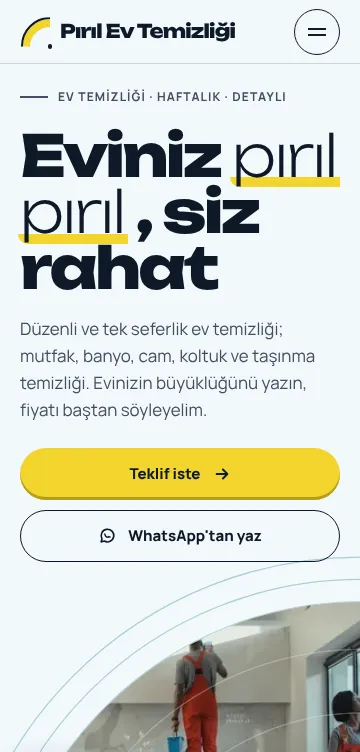
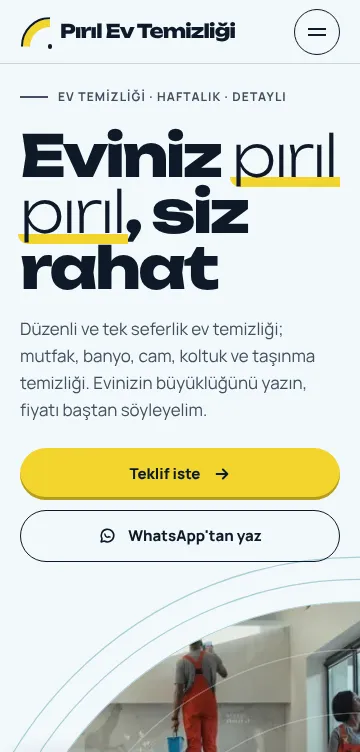
Vitrin: Silecek başlık düzeltmesiyle yeni ekran, Kor (restoran, 76) eklendi; 22 tasarım
Yayın kaynağı sürüm 33065f58. Test: 'restoran' artık yayındaki dal olduğundan
bilinmeyen dal örneği 'olmayan-dal' yapıldı (yayın listesinde olmadığı da sınanıyor).

Claude-Session: https://claude.ai/code/session_01Bg3cchsz5nz6ShfHjQs8Db

Changed region(s): [[0.3361, 0.2447, 0.7333, 0.3364]]

diff --git a/index.html b/index.html
@@ -746,7 +746,7 @@ footer li a{min-width:44px;justify-content:center}
     </div>
   </div>
   <div class="sahne gir d2" aria-hidden="true">
-    <div class="yuzen y1"><span class="i" style="background:#FDECEE;color:#C8001A"><svg><use href="#i-izg"/></svg></span><span data-vitrin="rozet"><!-- vitrin:rozet -->21 tasarım<small>17 renk, siz seçin</small><!-- /vitrin:rozet --></span></div>
+    <div class="yuzen y1"><span class="i" style="background:#FDECEE;color:#C8001A"><svg><use href="#i-izg"/></svg></span><span data-vitrin="rozet"><!-- vitrin:rozet -->22 tasarım<small>17 renk, siz seçin</small><!-- /vitrin:rozet --></span></div>
     <div class="yuzen y2"><span class="i" style="background:#166534;color:#fff"><svg><use href="#i-ok"/></svg></span><span>Kaydedildi<small>Sitede hemen görünür</small></span></div>
     <div class="tel"><div class="ada"></div><div class="ekran site" id="kapakTel">
       <img class="on" src="marka/web/kuafor-11.webp" width="360" height="752" alt="" fetchpriority="high">
@@ -761,10 +761,11 @@ footer li a{min-width:44px;justify-content:center}
   <div class="w"><div class="bas r">
     <div class="ust-yazi">Tasarımlar</div>
     <h2 id="tasarim-b">İşinize uygun <em>tasarımı seçin.</em></h2>
-    <p data-vitrin="metin"><!-- vitrin:metin -->21 sayfa tasarımı ve 17 renk paleti. Hepsi telefonda rahat okunacak şekilde hazırlandı. Dokunun, canlı örneği açın.<!-- /vitrin:metin --></p>
+    <p data-vitrin="metin"><!-- vitrin:metin -->22 sayfa tasarımı ve 17 renk paleti. Hepsi telefonda rahat okunacak şekilde hazırlandı. Dokunun, canlı örneği açın.<!-- /vitrin:metin --></p>
   </div></div>
-  <div class="vit" id="vit" data-surum="c8969bb1" tabindex="0" role="region" aria-label="Tasarım örnekleri (yana kaydırılabilir)"><!-- vitrin:kartlar -->
+  <div class="vit" id="vit" data-surum="33065f58" tabindex="0" role="region" aria-label="Tasarım örnekleri (yana kaydırılabilir)"><!-- vitrin:kartlar -->
     <a class="vk" href="https://app.enpovi.com/tema/cicekci/74/" target="_blank" rel="noopener"><span class="vk-tel"><img loading="lazy" decoding="async" src="marka/web/v/cicekci-74.webp" width="360" height="752" alt="Çiçekçi için Demet tasarımı, telefonda"></span><b>Demet</b><span>Çiçekçi</span></a>
+    <a class="vk" href="https://app.enpovi.com/tema/restoran/76/" target="_blank" rel="noopener"><span class="vk-tel"><img loading="lazy" decoding="async" src="marka/web/v/restoran-76.webp" width="360" height="752" alt="Restoran için Kor tasarımı, telefonda"></span><b>Kor</b><span>Restoran</span></a>
     <a class="vk" href="https://app.enpovi.com/tema/guzellik-merkezi/51/" target="_blank" rel="noopener"><span class="vk-tel"><img loading="lazy" decoding="async" src="marka/web/v/guzellik-merkezi-51.webp" width="360" height="752" alt="Güzellik merkezi için Kroma Shift tasarımı, telefonda"></span><b>Kroma Shift</b><span>Güzellik merkezi</span></a>
     <a class="vk" href="https://app.enpovi.com/tema/erkek-kuaforu-berber/69/" target="_blank" rel="noopener"><span class="vk-tel"><img loading="lazy" decoding="async" src="marka/web/v/erkek-kuaforu-berber-69.webp" width="360" height="752" alt="Erkek kuaförü / berber için Kontür tasarımı, telefonda"></span><b>Kontür</b><span>Erkek kuaförü / berber</span></a>
     <a class="vk" href="https://app.enpovi.com/tema/ev-temizligi/75/" target="_blank" rel="noopener"><span class="vk-tel"><img loading="lazy" decoding="async" src="marka/web/v/ev-temizligi-75.webp" width="360" height="752" alt="Ev temizliği için Silecek tasarımı, telefonda"></span><b>Silecek</b><span>Ev temizliği</span></a>
@@ -775,7 +776,6 @@ footer li a{min-width:44px;justify-content:center}
     <a class="vk" href="https://app.enpovi.com/tema/ev-temizligi/73/" target="_blank" rel="noopener"><span class="vk-tel"><img loading="lazy" decoding="async" src="marka/web/v/ev-temizligi-73.webp" width="360" height="752" alt="Ev temizliği için Çözgü tasarımı, telefonda"></span><b>Çözgü</b><span>Ev temizliği</span></a>
     <a class="vk" href="https://app.enpovi.com/tema/cicekci/68/" target="_blank" rel="noopener"><span class="vk-tel"><img loading="lazy" decoding="async" src="marka/web/v/cicekci-68.webp" width="360" height="752" alt="Çiçekçi için Fleuré tasarımı, telefonda"></span><b>Fleuré</b><span>Çiçekçi</span></a>
     <a class="vk" href="https://app.enpovi.com/tema/guzellik-merkezi/49/" target="_blank" rel="noopener"><span class="vk-tel"><img loading="lazy" decoding="async" src="marka/web/v/guzellik-merkezi-49.webp" width="360" height="752" alt="Güzellik merkezi için Miraé Atelier tasarımı, telefonda"></span><b>Miraé Atelier</b><span>Güzellik merkezi</span></a>
-    <a class="vk" href="https://app.enpovi.com/tema/erkek-kuaforu-berber/53/" target="_blank" rel="noopener"><span class="vk-tel"><img loading="lazy" decoding="async" src="marka/web/v/erkek-kuaforu-berber-53.webp" width="360" height="752" alt="Erkek kuaförü / berber için Noir tasarımı, telefonda"></span><b>Noir</b><span>Erkek kuaförü / berber</span></a>
     <!-- /vitrin:kartlar -->
   </div>
   <div class="w vit-alt">

diff --git a/en/index.html b/en/index.html
@@ -746,7 +746,7 @@ footer li a{min-width:44px;justify-content:center}
     </div>
   </div>
   <div class="sahne gir d2" aria-hidden="true">
-    <div class="yuzen y1"><span class="i" style="background:#FDECEE;color:#C8001A"><svg><use href="#i-izg"/></svg></span><span data-vitrin="rozet"><!-- vitrin:rozet -->21 designs<small>17 colour palettes, you choose</small><!-- /vitrin:rozet --></span></div>
+    <div class="yuzen y1"><span class="i" style="background:#FDECEE;color:#C8001A"><svg><use href="#i-izg"/></svg></span><span data-vitrin="rozet"><!-- vitrin:rozet -->22 designs<small>17 colour palettes, you choose</small><!-- /vitrin:rozet --></span></div>
     <div class="yuzen y2"><span class="i" style="background:#166534;color:#fff"><svg><use href="#i-ok"/></svg></span><span>Saved<small>Shows on the site right away</small></span></div>
     <div class="tel"><div class="ada"></div><div class="ekran site" id="kapakTel">
       <img class="on" src="/marka/web/kuafor-11.webp" width="360" height="752" alt="" fetchpriority="high">
@@ -761,10 +761,11 @@ footer li a{min-width:44px;justify-content:center}
   <div class="w"><div class="bas r">
     <div class="ust-yazi">Designs</div>
     <h2 id="tasarim-b">Choose the design <em>that suits your business.</em></h2>
-    <p data-vitrin="metin"><!-- vitrin:metin -->21 page designs and 17 colour palettes, all made to read comfortably on a phone. Tap to open a live example.<!-- /vitrin:metin --></p>
+    <p data-vitrin="metin"><!-- vitrin:metin -->22 page designs and 17 colour palettes, all made to read comfortably on a phone. Tap to open a live example.<!-- /vitrin:metin --></p>
   </div></div>
-  <div class="vit" id="vit" data-surum="c8969bb1" tabindex="0" role="region" aria-label="Design examples (scrolls sideways)"><!-- vitrin:kartlar -->
+  <div class="vit" id="vit" data-surum="33065f58" tabindex="0" role="region" aria-label="Design examples (scrolls sideways)"><!-- vitrin:kartlar -->
     <a class="vk" href="https://app.enpovi.com/tema/cicekci/74/" target="_blank" rel="noopener"><span class="vk-tel"><img loading="lazy" decoding="async" src="/marka/web/v/cicekci-74.webp" width="360" height="752" alt="Demet: Florist website design, on a phone"></span><b>Demet</b><span>Florist</span></a>
+    <a class="vk" href="https://app.enpovi.com/tema/restoran/76/" target="_blank" rel="noopener"><span class="vk-tel"><img loading="lazy" decoding="async" src="/marka/web/v/restoran-76.webp" width="360" height="752" alt="Kor: Restaurant &amp; café website design, on a phone"></span><b>Kor</b><span>Restaurant &amp; café</span></a>
     <a class="vk" href="https://app.enpovi.com/tema/guzellik-merkezi/51/" target="_blank" rel="noopener"><span class="vk-tel"><img loading="lazy" decoding="async" src="/marka/web/v/guzellik-merkezi-51.webp" width="360" height="752" alt="Kroma Shift: Beauty &amp; care website design, on a phone"></span><b>Kroma Shift</b><span>Beauty &amp; care</span></a>
     <a class="vk" href="https://app.enpovi.com/tema/erkek-kuaforu-berber/69/" target="_blank" rel="noopener"><span class="vk-tel"><img loading="lazy" decoding="async" src="/marka/web/v/erkek-kuaforu-berber-69.webp" width="360" height="752" alt="Kontür: Barber website design, on a phone"></span><b>Kontür</b><span>Barber</span></a>
     <a class="vk" href="https://app.enpovi.com/tema/ev-temizligi/75/" target="_blank" rel="noopener"><span class="vk-tel"><img loading="lazy" decoding="async" src="/marka/web/v/ev-temizligi-75.webp" width="360" height="752" alt="Silecek: Cleaning website design, on a phone"></span><b>Silecek</b><span>Cleaning</span></a>
@@ -775,7 +776,6 @@ footer li a{min-width:44px;justify-content:center}
     <a class="vk" href="https://app.enpovi.com/tema/ev-temizligi/73/" target="_blank" rel="noopener"><span class="vk-tel"><img loading="lazy" decoding="async" src="/marka/web/v/ev-temizligi-73.webp" width="360" height="752" alt="Çözgü: Cleaning website design, on a phone"></span><b>Çözgü</b><span>Cleaning</span></a>
     <a class="vk" href="https://app.enpovi.com/tema/cicekci/68/" target="_blank" rel="noopener"><span class="vk-tel"><img loading="lazy" decoding="async" src="/marka/web/v/cicekci-68.webp" width="360" height="752" alt="Fleuré: Florist website design, on a phone"></span><b>Fleuré</b><span>Florist</span></a>
     <a class="vk" href="https://app.enpovi.com/tema/guzellik-merkezi/49/" target="_blank" rel="noopener"><span class="vk-tel"><img loading="lazy" decoding="async" src="/marka/web/v/guzellik-merkezi-49.webp" width="360" height="752" alt="Miraé Atelier: Beauty &amp; care website design, on a phone"></span><b>Miraé Atelier</b><span>Beauty &amp; care</span></a>
-    <a class="vk" href="https://app.enpovi.com/tema/erkek-kuaforu-berber/53/" target="_blank" rel="noopener"><span class="vk-tel"><img loading="lazy" decoding="async" src="/marka/web/v/erkek-kuaforu-berber-53.webp" width="360" height="752" alt="Noir: Barber website design, on a phone"></span><b>Noir</b><span>Barber</span></a>
     <!-- /vitrin:kartlar -->
   </div>
   <div class="w vit-alt">

diff --git a/.github/vitrin/test_uygula.py b/.github/vitrin/test_uygula.py
@@ -110,10 +110,11 @@ class Vitrin(unittest.TestCase):
         for dil in ("tr", "en"):
             self.assertEqual(U.dal_hatalari(sayfa(dil), self.v.get("dallar")), [], dil)
             self.assertTrue(U.DAL_BAG.findall(sayfa(dil)), dil + ": sayfada iş çipi var")
-        b = '<a href="https://app.enpovi.com/basla/?dal=restoran">'
+        self.assertNotIn("olmayan-dal", self.v["dallar"])  # yayında olmayan dal; gerçek dal adı (ör. restoran) liste büyüdükçe geçerli olur
+        b = '<a href="https://app.enpovi.com/basla/?dal=olmayan-dal">'
         self.assertTrue(U.dal_hatalari(b, self.v["dallar"]))
-        self.assertTrue(U.dal_hatalari('<a href="https://app.enpovi.com/basla/?paket=baslangic&amp;dal=restoran">', self.v["dallar"]))
-        self.assertTrue(U.dal_hatalari('<a href="https://app.enpovi.com/basla/?paket=x&dal=restoran">', self.v["dallar"]))
+        self.assertTrue(U.dal_hatalari('<a href="https://app.enpovi.com/basla/?paket=baslangic&amp;dal=olmayan-dal">', self.v["dallar"]))
+        self.assertTrue(U.dal_hatalari('<a href="https://app.enpovi.com/basla/?paket=x&dal=olmayan-dal">', self.v["dallar"]))
         self.assertEqual(U.dal_hatalari('<a href="https://app.enpovi.com/basla/?dal=cicekci">', ["cicekci"]), [])
         for bozuk in (None, [], "cicekci,restoran", ["../x"]):
             self.assertTrue(U.dal_hatalari(b, bozuk), repr(bozuk))
